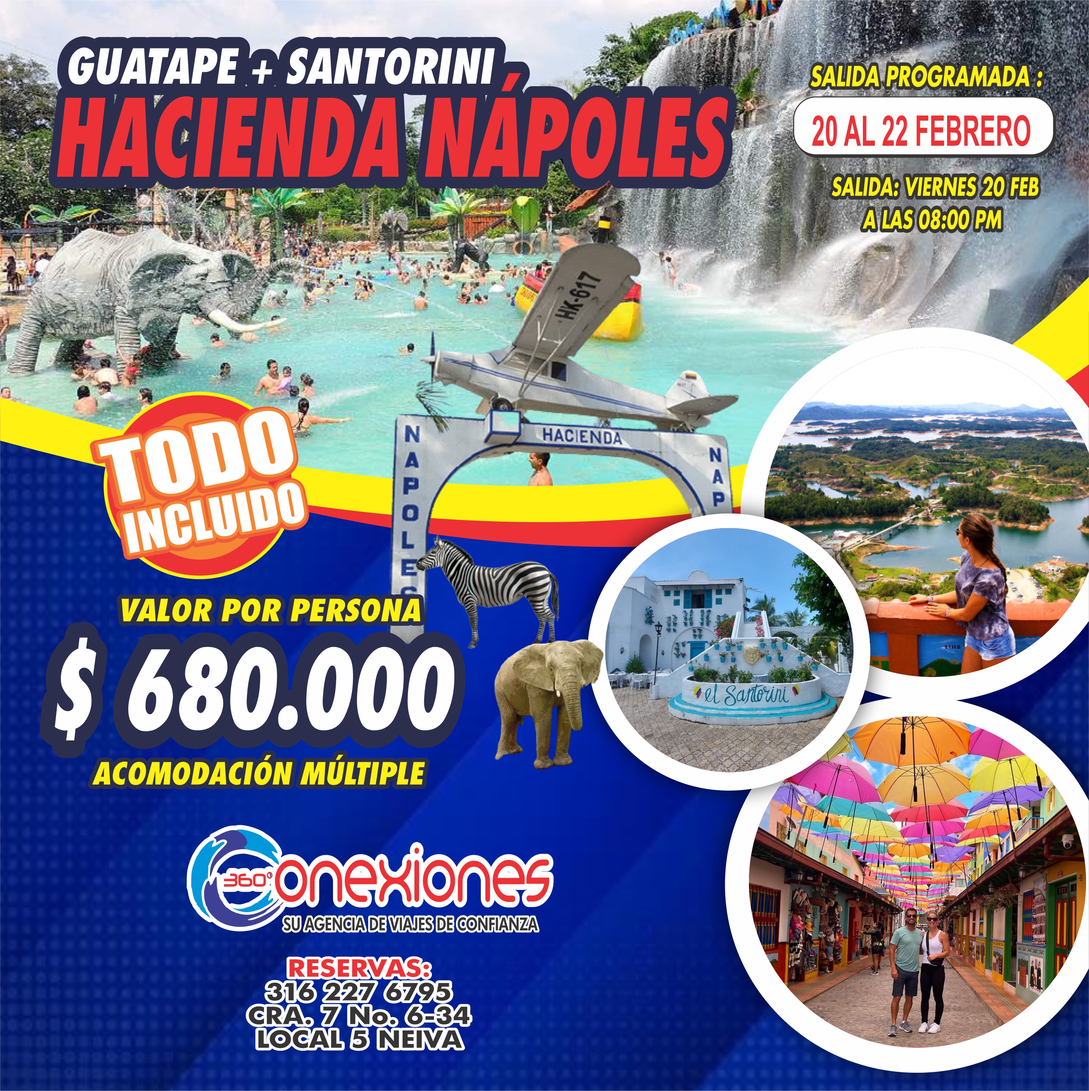
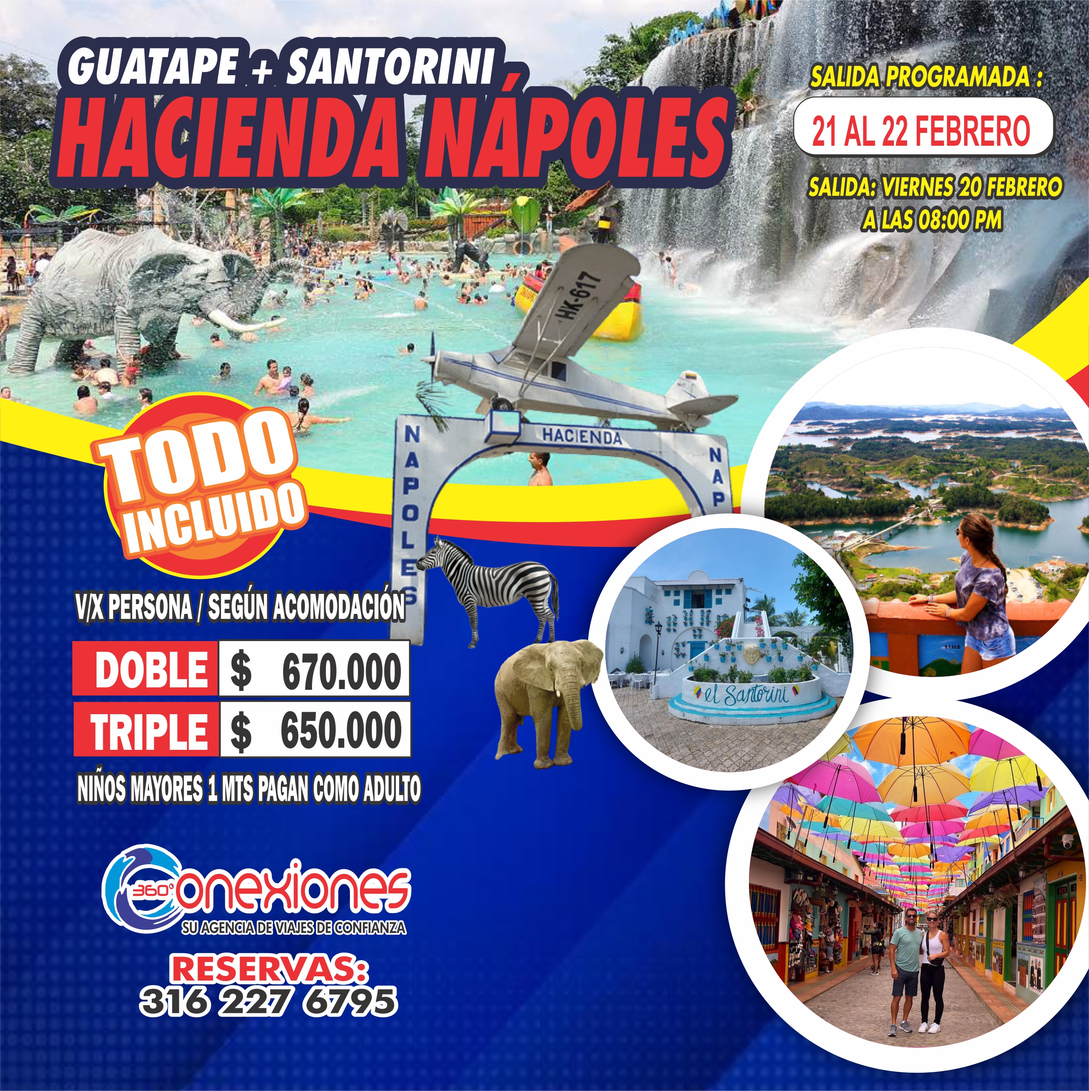
correciones febrero

diff --git a/src/data/flyers/flyers.ts b/src/data/flyers/flyers.ts
@@ -79,6 +79,72 @@ export const flyers: FlyerPlan[] = [
     whatsappBase:
       "Hola Conexiones360, quiero información del plan Punta Cana ",
   },
+      {
+    id: "sanandresaereo",
+    mes: "julio",// mes no relevante para aereo
+    tipo: "aereo",
+    titulo: "San Andrés",
+    fechas: ["Salidas temporadas bajas o a tu elección"],
+    precio: 1870000,
+    imagen: "/Aereos/sanandres.jpg",
+    whatsappBase:
+      "Hola Conexiones360, quiero información del plan San Andrés",
+  },
+      {
+    id: "capurganaereo",
+    mes: "julio",// mes no relevante para aereo
+    tipo: "aereo",
+    titulo: "Capurganá",
+    fechas: ["Salidas temporadas bajas o a tu elección"],
+    precio: 2800000,
+    imagen: "/Aereos/capurgana.jpg",
+    whatsappBase:
+      "Hola Conexiones360, quiero información del plan Capurganá",
+  },
+      {
+    id: "cartagenaybaruaereo",
+    mes: "julio",// mes no relevante para aereo
+    tipo: "aereo",
+    titulo: "Cartagena y Barú",
+    fechas: ["Salidas temporadas bajas o a tu elección"],
+    precio: 1280000,
+    imagen: "/Aereos/cartagena.jpg",
+    whatsappBase:
+      "Hola Conexiones360, quiero información del plan Cartagena y Barú",
+  },
+      {
+    id: "santamartaaereo",
+    mes: "julio",// mes no relevante para aereo
+    tipo: "aereo",
+    titulo: "Santa Marta",
+    fechas: ["Salidas temporadas bajas o a tu elección"],
+    precio: 1189000,
+    imagen: "/Aereos/santamarta.jpg",
+    whatsappBase:
+      "Hola Conexiones360, quiero información del plan Santa Marta",
+  },
+      {
+    id: "coveñasaereo",
+    mes: "julio",// mes no relevante para aereo
+    tipo: "aereo",
+    titulo: "Coveñas e Isla Múcura",
+    fechas: ["Salidas temporadas bajas o a tu elección"],
+    precio: 1708000,
+    imagen: "/Aereos/covenas.jpg",
+    whatsappBase:
+      "Hola Conexiones360, quiero información del plan Coveñas e Isla Múcura",
+  },
+      {
+    id: "islapalmasaereo",
+    mes: "julio",// mes no relevante para aereo
+    tipo: "aereo",
+    titulo: "Isla Palma",
+    fechas: ["Salidas temporadas bajas o a tu elección"],
+    precio: 2830000,
+    imagen: "/Aereos/islapalma.jpg",
+    whatsappBase:
+      "Hola Conexiones360, quiero información del plan Isla Palma",
+  },
 // TERRESTRES 2026
 // FEBRERO
   {
@@ -88,7 +154,7 @@ export const flyers: FlyerPlan[] = [
     titulo: "Programación Febrero 2026",
     fechas: ["Febrero 1 - 22"],
     precio: 145000,
-    imagen: "/Febrero2026/ListaFebrero.jpg",
+    imagen: "/Febrero2026/lista.jpg",
     whatsappBase:
       "Hola Conexiones360, quiero información del plan Febrero 2026",
   },
@@ -107,14 +173,13 @@ export const flyers: FlyerPlan[] = [
     id: "piscilago-febrero",
     mes: "febrero",
     tipo: "terrestre",
-    titulo: "Piscilago Pasadía",
+    titulo: "Piscilago Pasadía 2X",
     fechas: [
-      "Febrero 1",
       "Febrero 8",
       "Febrero 15",
       "Febrero 22",
     ],
-    precio: 170000,
+    precio: 320000,
     imagen: "/Febrero2026/piscilago.jpg",
     whatsappBase:
       "Hola Conexiones360, quiero información del plan Piscilago",
@@ -124,7 +189,7 @@ export const flyers: FlyerPlan[] = [
     mes: "febrero",
     tipo: "terrestre",
     titulo: "Carnaval de Barranquilla",
-    fechas: ["Febrero 12 al 26"],
+    fechas: ["Febrero 12 al 17"],
     precio: 1100000,
     imagen: "/Febrero2026/carnavalb.jpg",
     whatsappBase:
@@ -158,7 +223,7 @@ export const flyers: FlyerPlan[] = [
     tipo: "terrestre",
     titulo: "Guatapé + Santorini y Hacienda Nápoles",
     fechas: ["Febrero 20 al 22"],
-    precio: 680000,
+    precio: 650000,
     imagen: "/Febrero2026/guatape.jpg",
     whatsappBase:
       "Hola Conexiones360, quiero información del plan Guatapé + Santorini y Hacienda Nápoles",
@@ -167,9 +232,9 @@ export const flyers: FlyerPlan[] = [
     id: "parquedelcafe",
     mes: "febrero",
     tipo: "terrestre",
-    titulo: "Parque del Café",
+    titulo: "Parque del Café 2X",
     fechas: ["Febrero 22"],
-    precio: 340000,
+    precio: 499000,
     imagen: "/Febrero2026/pcafe.jpg",
     whatsappBase:
       "Hola Conexiones360, quiero información del plan Parque del Café",
